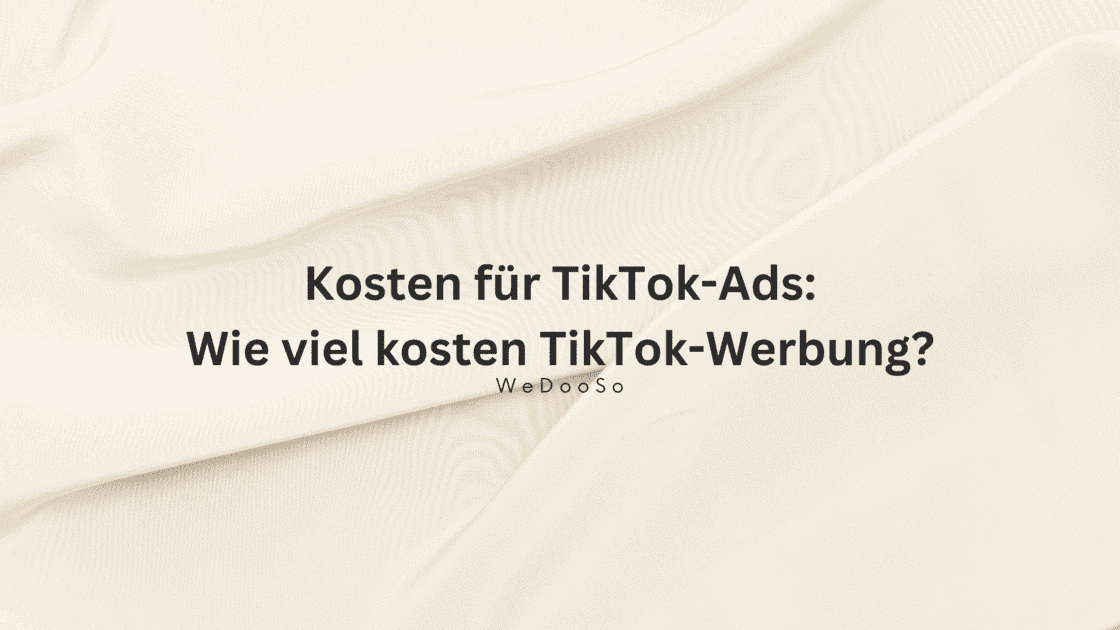
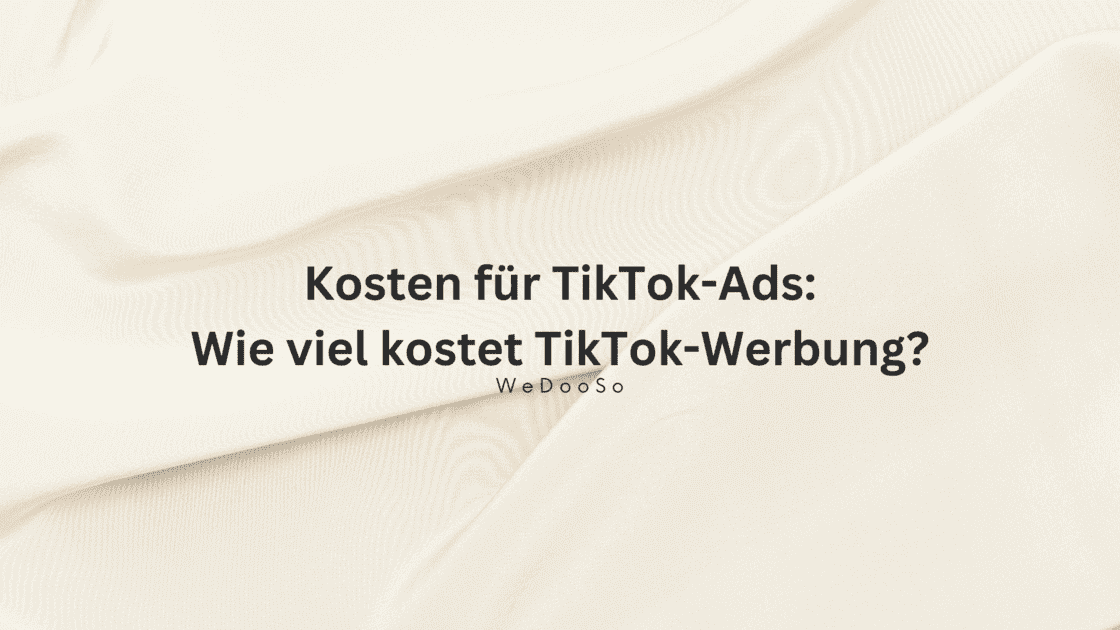
improved the blog post

Changed region(s): [[0.1562, 0.5127, 0.8438, 0.6032]]

diff --git a/de/blog/tiktok-advertising-cost/index.html b/de/blog/tiktok-advertising-cost/index.html
@@ -45,13 +45,13 @@
 
 
     <!-- HTML Meta Tags -->
-    <title>Kosten für TikTok-Ads: Wie viel kosten TikTok-Werbung?</title>
+    <title>Kosten für TikTok-Ads: Wie viel kostet TikTok-Werbung?</title>
     <meta name="description" content="TikTok erfordert für jede Werbekampagne ein Mindestbudget von 500 US-Dollar. Du kannst jedoch Tagesbudgets von nur 50 $ oder sogar 20 $ pro...">
 
     <!-- Facebook Meta Tags -->
     <meta property="og:url" content="https://wedooso.com/de/blog/tiktok-advertising-cost/">
     <meta property="og:type" content="website">
-    <meta property="og:title" content="Kosten für TikTok-Ads: Wie viel kosten TikTok-Werbung?">
+    <meta property="og:title" content="Kosten für TikTok-Ads: Wie viel kostet TikTok-Werbung?">
     <meta property="og:description" content="TikTok erfordert für jede Werbekampagne ein Mindestbudget von 500 US-Dollar. Du kannst jedoch Tagesbudgets von nur 50 $ oder sogar 20 $ pro...">
     <meta property="og:image" content="https://wedooso.com/images/tiktok-advertising-cost-de.png">
 
@@ -59,7 +59,7 @@
     <meta name="twitter:card" content="summary_large_image">
     <meta property="twitter:domain" content="wedooso.com">
     <meta property="twitter:url" content="https://wedooso.com/de/blog/tiktok-advertising-cost/">
-    <meta name="twitter:title" content="Kosten für TikTok-Ads: Wie viel kosten TikTok-Werbung?">
+    <meta name="twitter:title" content="Kosten für TikTok-Ads: Wie viel kostet TikTok-Werbung?">
     <meta name="twitter:description" content="TikTok erfordert für jede Werbekampagne ein Mindestbudget von 500 US-Dollar. Du kannst jedoch Tagesbudgets von nur 50 $ oder sogar 20 $ pro...">
     <meta name="twitter:image" content="https://wedooso.com/images/tiktok-advertising-cost-de.png">
 
@@ -106,7 +106,7 @@
     <section id="content">
         <div class="content container">
             <div class="content-top content-top-blog">
-                <h1 class="lower-title">Kosten für TikTok-Ads: Wie viel kosten TikTok-Werbung?</h1>
+                <h1 class="lower-title">Kosten für TikTok-Ads: Wie viel kostet TikTok-Werbung?</h1>
 
                 <div class="blog-content-section">
                     <p>
@@ -123,7 +123,7 @@
 
 
                 <div id="blog-image">
-                    <img src="/images/tiktok-advertising-cost-de.png" alt="Kosten für TikTok-Ads: Wie viel kosten TikTok-Werbung? image">
+                    <img src="/images/tiktok-advertising-cost-de.png" alt="Kosten für TikTok-Ads: Wie viel kostet TikTok-Werbung? image">
                 </div>
 
                 <div id="blog-content">
